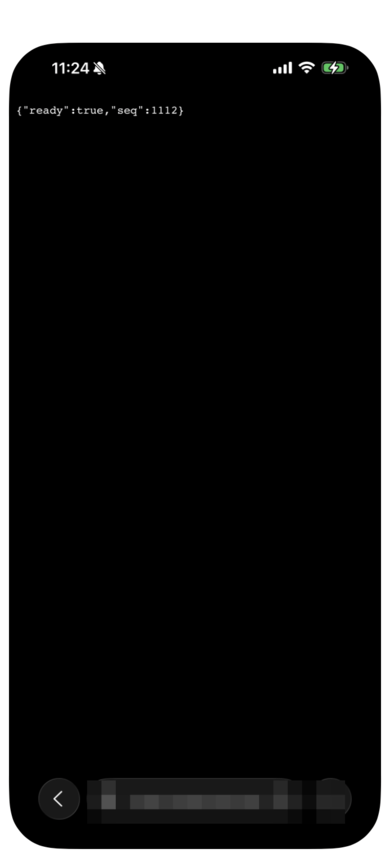
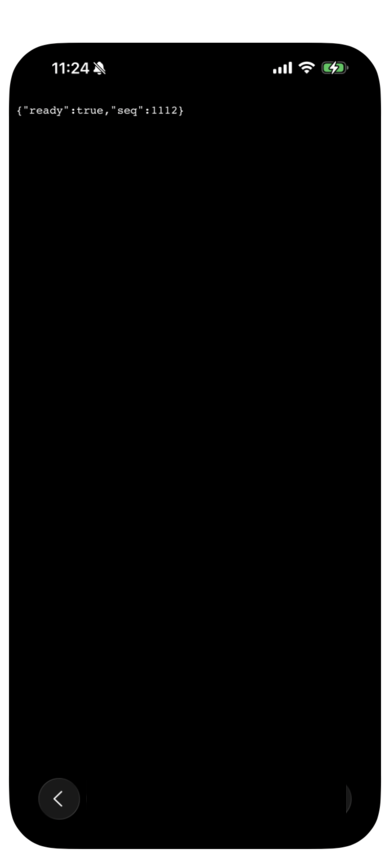
docs: sanitize setup and validation screenshots without altering evidence
Repair the existing privacy review findings while retaining every capture.
Replace pixelation with opaque connection and pairing-field masks, mask author
names and unrelated profiles/settings, and remove ICC/EXIF/XMP/text metadata.
Re-export 19 PNGs including two older quickstart captures; 10 have
visible masks. All 41 committed documentation PNGs have no identifying
metadata chunks. CRC and full decode/re-encode checks preserve every visible
pixel outside masks and discard RGB under fully transparent pixels. Inspect
all masked exports visually, preserving the onboarding target and its state.

Capture contracts 104/104 and onboarding contracts 100/100 pass. Both secret
scans pass. Strict MkDocs and output-origin checks pass in the pinned Linux
container with existing hash-pinned dependencies. Original device/version
claims remain unchanged; this is not a new native acceptance or review verdict.
Product attribution and protected history remain outside this screenshot fix.

Accounting: 21 files, +45/-0, including 19 binaries.

- GPT-6

Changed region(s): [[0.2154, 0.9091, 0.7692, 0.9697], [0.8, 0.9091, 0.8923, 0.9697]]

diff --git a/docs/validation-runs/2026-09-24-screenshot-privacy.md b/docs/validation-runs/2026-09-24-screenshot-privacy.md
@@ -1,0 +1,43 @@
+# Screenshot privacy repair, 2026-09-24
+
+This author repair addresses the screenshot findings in the
+[privacy handoff](https://github.com/snaraj/obsync/pull/133#issuecomment-5826036362).
+It preserves the captures and their original device/version scope; it is not
+new device acceptance or an independent privacy verdict.
+
+19 committed PNGs were re-exported with only `IHDR`, `IDAT` and `IEND`
+chunks. The export removes ICC profiles, EXIF, XMP and text metadata rather
+than relying on a visible mask to hide embedded values. A scan of all
+41 committed documentation PNGs found none of those metadata chunks.
+Two older quickstart captures received the same metadata-only treatment.
+
+10 captures have small solid masks flattened into their pixels:
+
+- Author-name fields in plugin search, plugin details and installed-plugin
+  screenshots.
+- Connection-address and pairing-material fields that previously used
+  pixelation.
+- Unrelated installed profiles and trust settings, retaining the onboarding
+  certificate and its off/on state.
+
+The exporter verified PNG CRCs, decoded and re-encoded the image grid, and
+compared every visible pixel outside the mask rectangles with its original.
+All those pixels are unchanged. Every masked pixel is opaque; hidden RGB
+values under fully transparent pixels were discarded. The exported masks
+were visually inspected, including the surrounding labels and controls.
+No screenshot was generated or reconstructed.
+
+The 104 capture and 100 onboarding contract tests pass. Both Gitleaks scans
+pass. The strict site build and output-origin checks pass in the pinned Linux
+container using the existing hash-pinned documentation dependencies.
+
+Relevant checks are the existing capture and onboarding contract suites:
+
+```sh
+python3 -I -B -m unittest discover -s scripts/ci -p 'test_capture_contract.py'
+python3 -I -B -m unittest discover -s scripts/ci -p 'test_onboarding_contract.py'
+```
+
+This repair does not change product attribution, mandated commit identity,
+or protected history. Earlier immutable revisions retain their historical
+bytes; current evidence links must point to this repaired revision.

diff --git a/docs/validation-runs/README.md b/docs/validation-runs/README.md
@@ -49,3 +49,5 @@ referenced from here. Redact by role. A record that needs a private fact to be
 legible is naming the wrong fact: name the class instead.
 
 - [2026-09-24 native iPhone acceptance](2026-09-24-phone-candidate.md): current 1.1.2 installation, identical first sync, two-way edits, offline restart and automatic recovery.
+
+- [2026-09-24 screenshot privacy repair](2026-09-24-screenshot-privacy.md): opaque masks, metadata removal and unchanged visible evidence.
